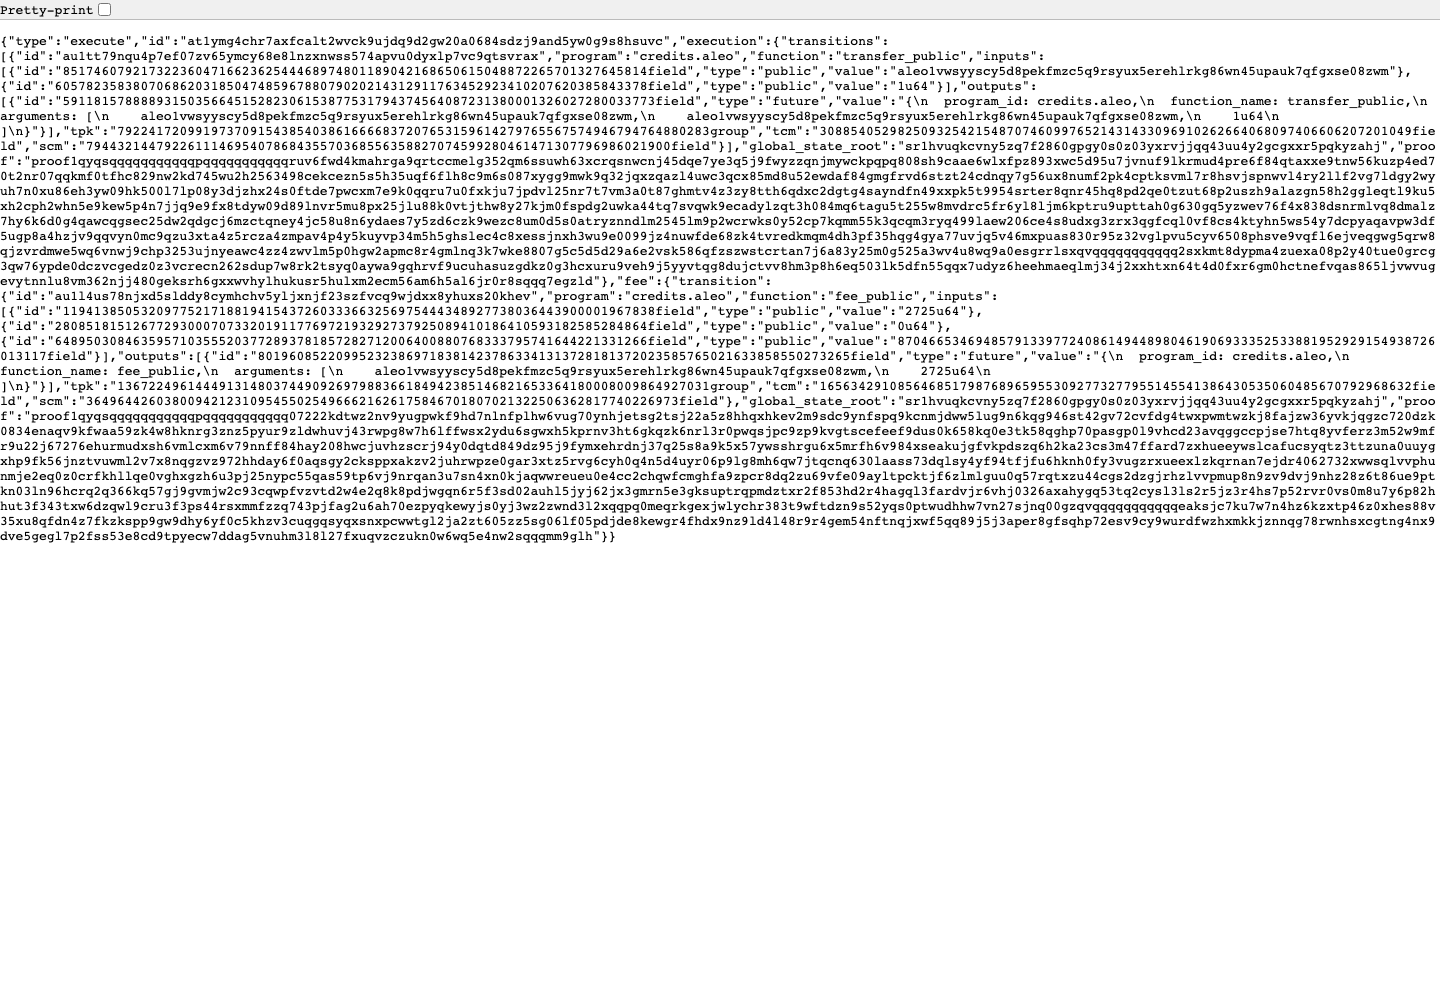
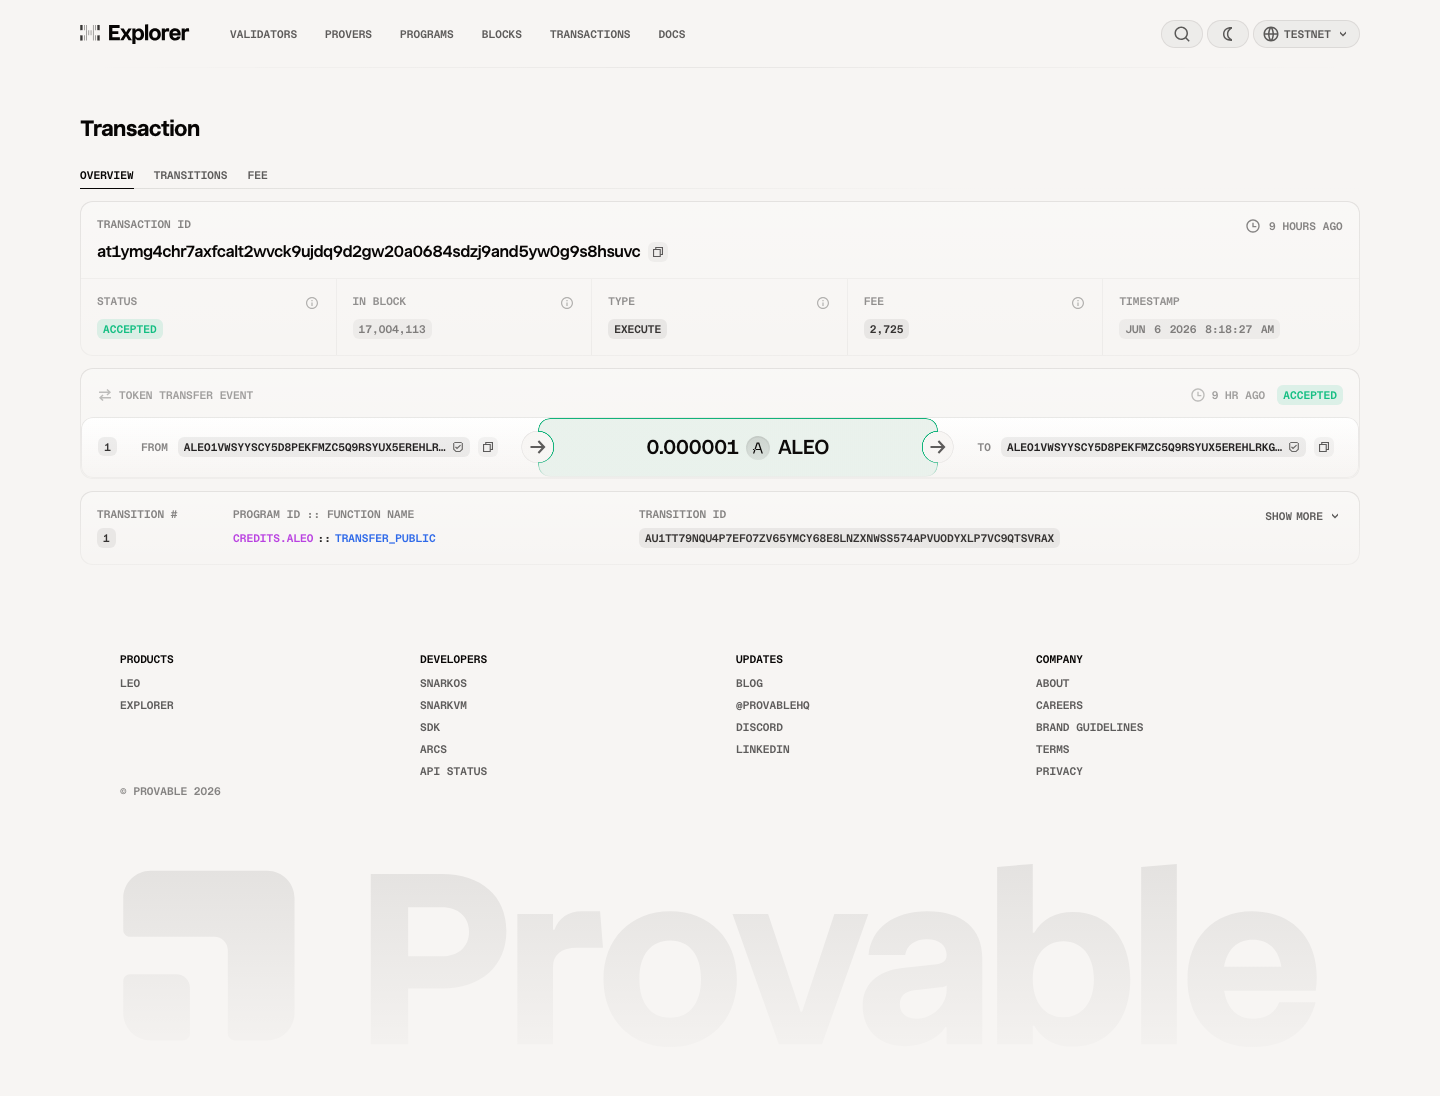
Use testnet explorer screenshot for task4

diff --git a/learn/xu-nicolas/task4.md b/learn/xu-nicolas/task4.md
@@ -31,7 +31,7 @@ Aleo Private Quest Board
 ## 链上交互记录
 
 - Transaction ID: `at1ymg4chr7axfcalt2wvck9ujdq9d2gw20a0684sdzj9and5yw0g9s8hsuvc`
-- Explorer URL: `https://explorer.provable.com/transaction/at1ymg4chr7axfcalt2wvck9ujdq9d2gw20a0684sdzj9and5yw0g9s8hsuvc?network=testnet`
+- Explorer URL: `https://testnet.explorer.provable.com/transaction/at1ymg4chr7axfcalt2wvck9ujdq9d2gw20a0684sdzj9and5yw0g9s8hsuvc`
 - API 验证地址: `https://api.explorer.provable.com/v1/testnet/transaction/at1ymg4chr7axfcalt2wvck9ujdq9d2gw20a0684sdzj9and5yw0g9s8hsuvc`
 
 交易内容包含：